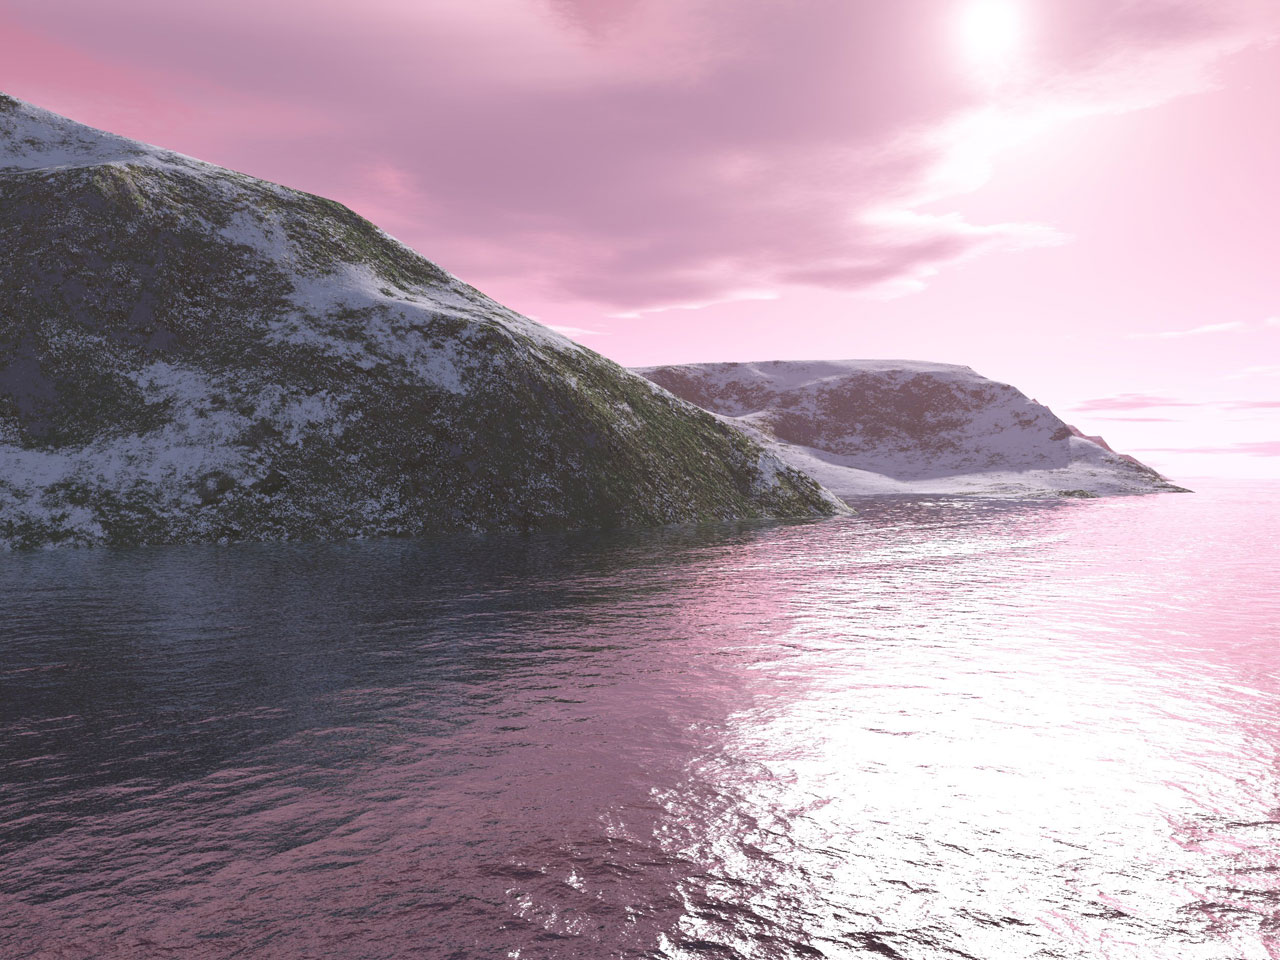
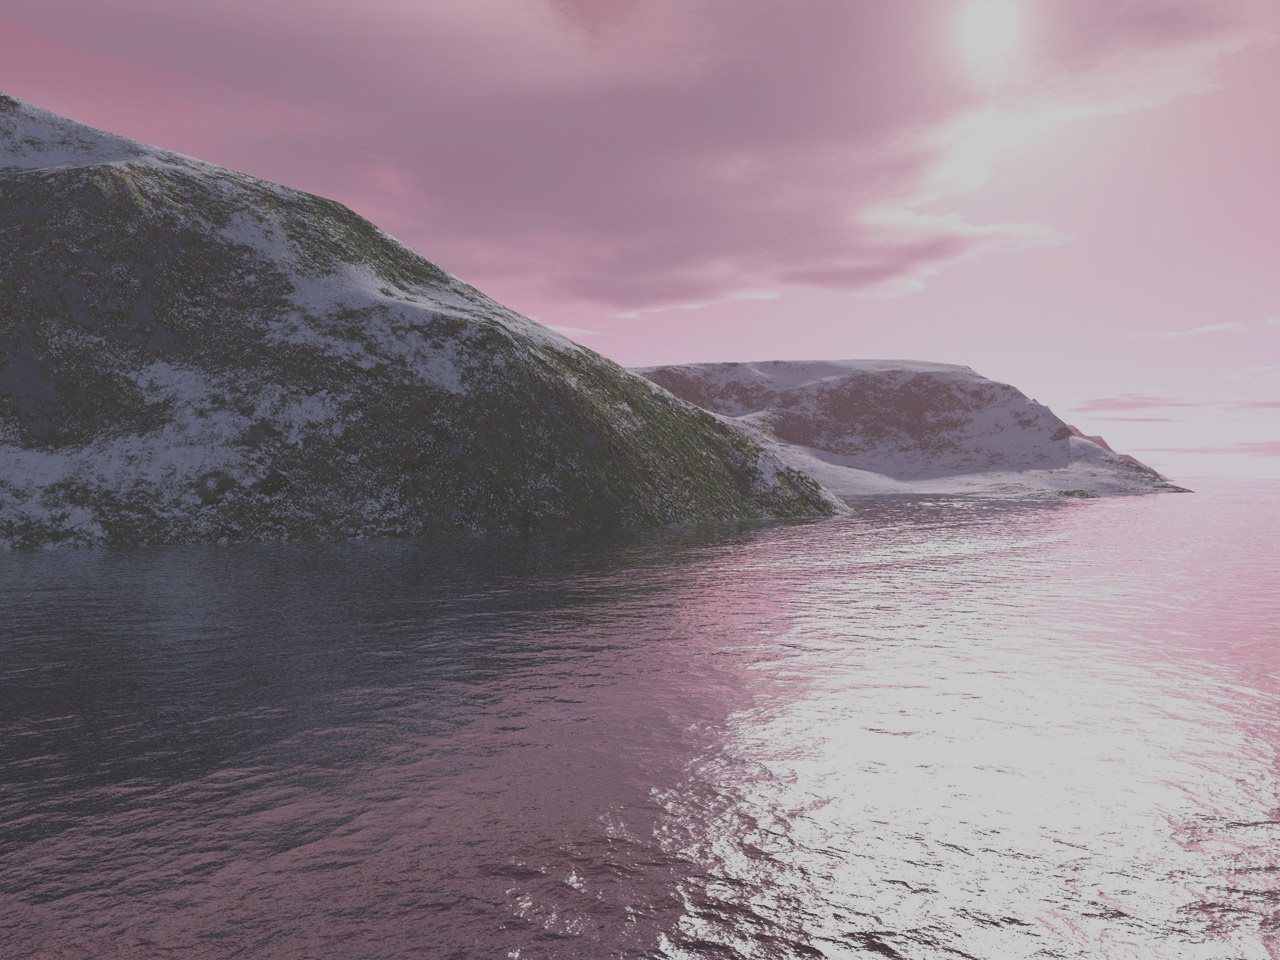
Add footer in HTML and its styling in both CSS stylesheets.

diff --git a/style-2.css b/style-2.css
@@ -32,17 +32,15 @@ div {
 }
 
 h2 {
-    background-color: #eee;
-    border-left: 5px solid cadetblue;
-    font-size: 1.8rem;
-    color: cadetblue;
-    padding-left: 0.5rem;
+    font-size: 3rem;
+    color: #fbe8f3;
+    text-align: center;
 }
 
 h3 {
     border-bottom: 2px solid #ccc;
-    font-size: 1.4rem;
-    color: #333;
+    font-size: 1.7rem;
+    color: #745c6a;
     margin-top: 0.5rem;
 }
 
@@ -54,44 +52,52 @@ h3 {
 .paragraph-6,
 .paragraph-7,
 .paragraph-8 {
-    background-color: rgba(250, 250, 250, 0.6); /* translucent white */
+    background-color: rgba(250, 250, 250, 0.6);
     border-left: 3px solid #ccc;
-    border-radius: 10px;         /* rounded corners */
-    padding: 1rem;              /* space inside */
-    margin: 1rem 0;            /* spacing between paragraphs */
-    backdrop-filter: blur(4px); /* optional: adds a frosted-glass effect */
+    border-radius: 10px;
+    padding: 1rem;
+    margin: 1rem 0;
+    backdrop-filter: blur(4px);
     width: 80%;
 }
 
 .paragraph-container {
     display: flex;
-    flex-direction: column;     /* stack paragraphs vertically */
-    align-items: center;        /* center horizontally */
-    justify-content: center;    /* center vertically if container has height */
+    flex-direction: column;
+    align-items: center;
+    justify-content: center;
     padding: 2rem;
 }
 
 p {
     padding: 0.5rem 0;
     color: #444;
-    font-size: 1rem;
+    font-size: 1.3rem;
     text-align: justify;
 }
 
 .unordered-list ul {
     list-style: disc inside;
-    padding-left: 1.5rem;
+    padding-left: 10rem;
     margin: 0.5rem 0;
 }
 
 .unordered-list li {
     padding: 0.25rem 0;
     font-size: 2rem;
-    color: #333;
+    color: rgba(250, 250, 250, 0.6);
 }
 
 .unordered-list li:hover {
-    color: cadetblue;
+    color: #c794af;
     cursor: default;
     transition: color 0.2s ease-in-out;
+}
+
+footer {
+    background-color: #ffffff;
+    color: #c794af;
+    text-align: center;
+    padding: 15px 0;
+    font-size: 1.3rem;
 }

diff --git a/style-1.css b/style-1.css
@@ -63,9 +63,9 @@ h3 {
 
 .paragraph-container {
     display: flex;
-    flex-direction: column;     /* stack paragraphs vertically */
-    align-items: center;        /* center horizontally */
-    justify-content: center;    /* center vertically if container has height */
+    flex-direction: column;
+    align-items: center;
+    justify-content: center;
     padding: 1rem;
 }
 
@@ -93,3 +93,12 @@ p {
     cursor: default;
     transition: color 0.2s ease-in-out;
 }
+
+footer {
+    background-color: #eee;
+    color: cadetblue;
+    text-align: center;
+    padding: 15px 0;
+    font-size: 1.3rem;
+}
+

diff --git a/index.html b/index.html
@@ -120,5 +120,8 @@
             <li>Muffins</li>
         </ul>
     </div>
+    <footer>
+        2025 My CSS Zen Garder
+    </footer>
 </body>
 </html>
